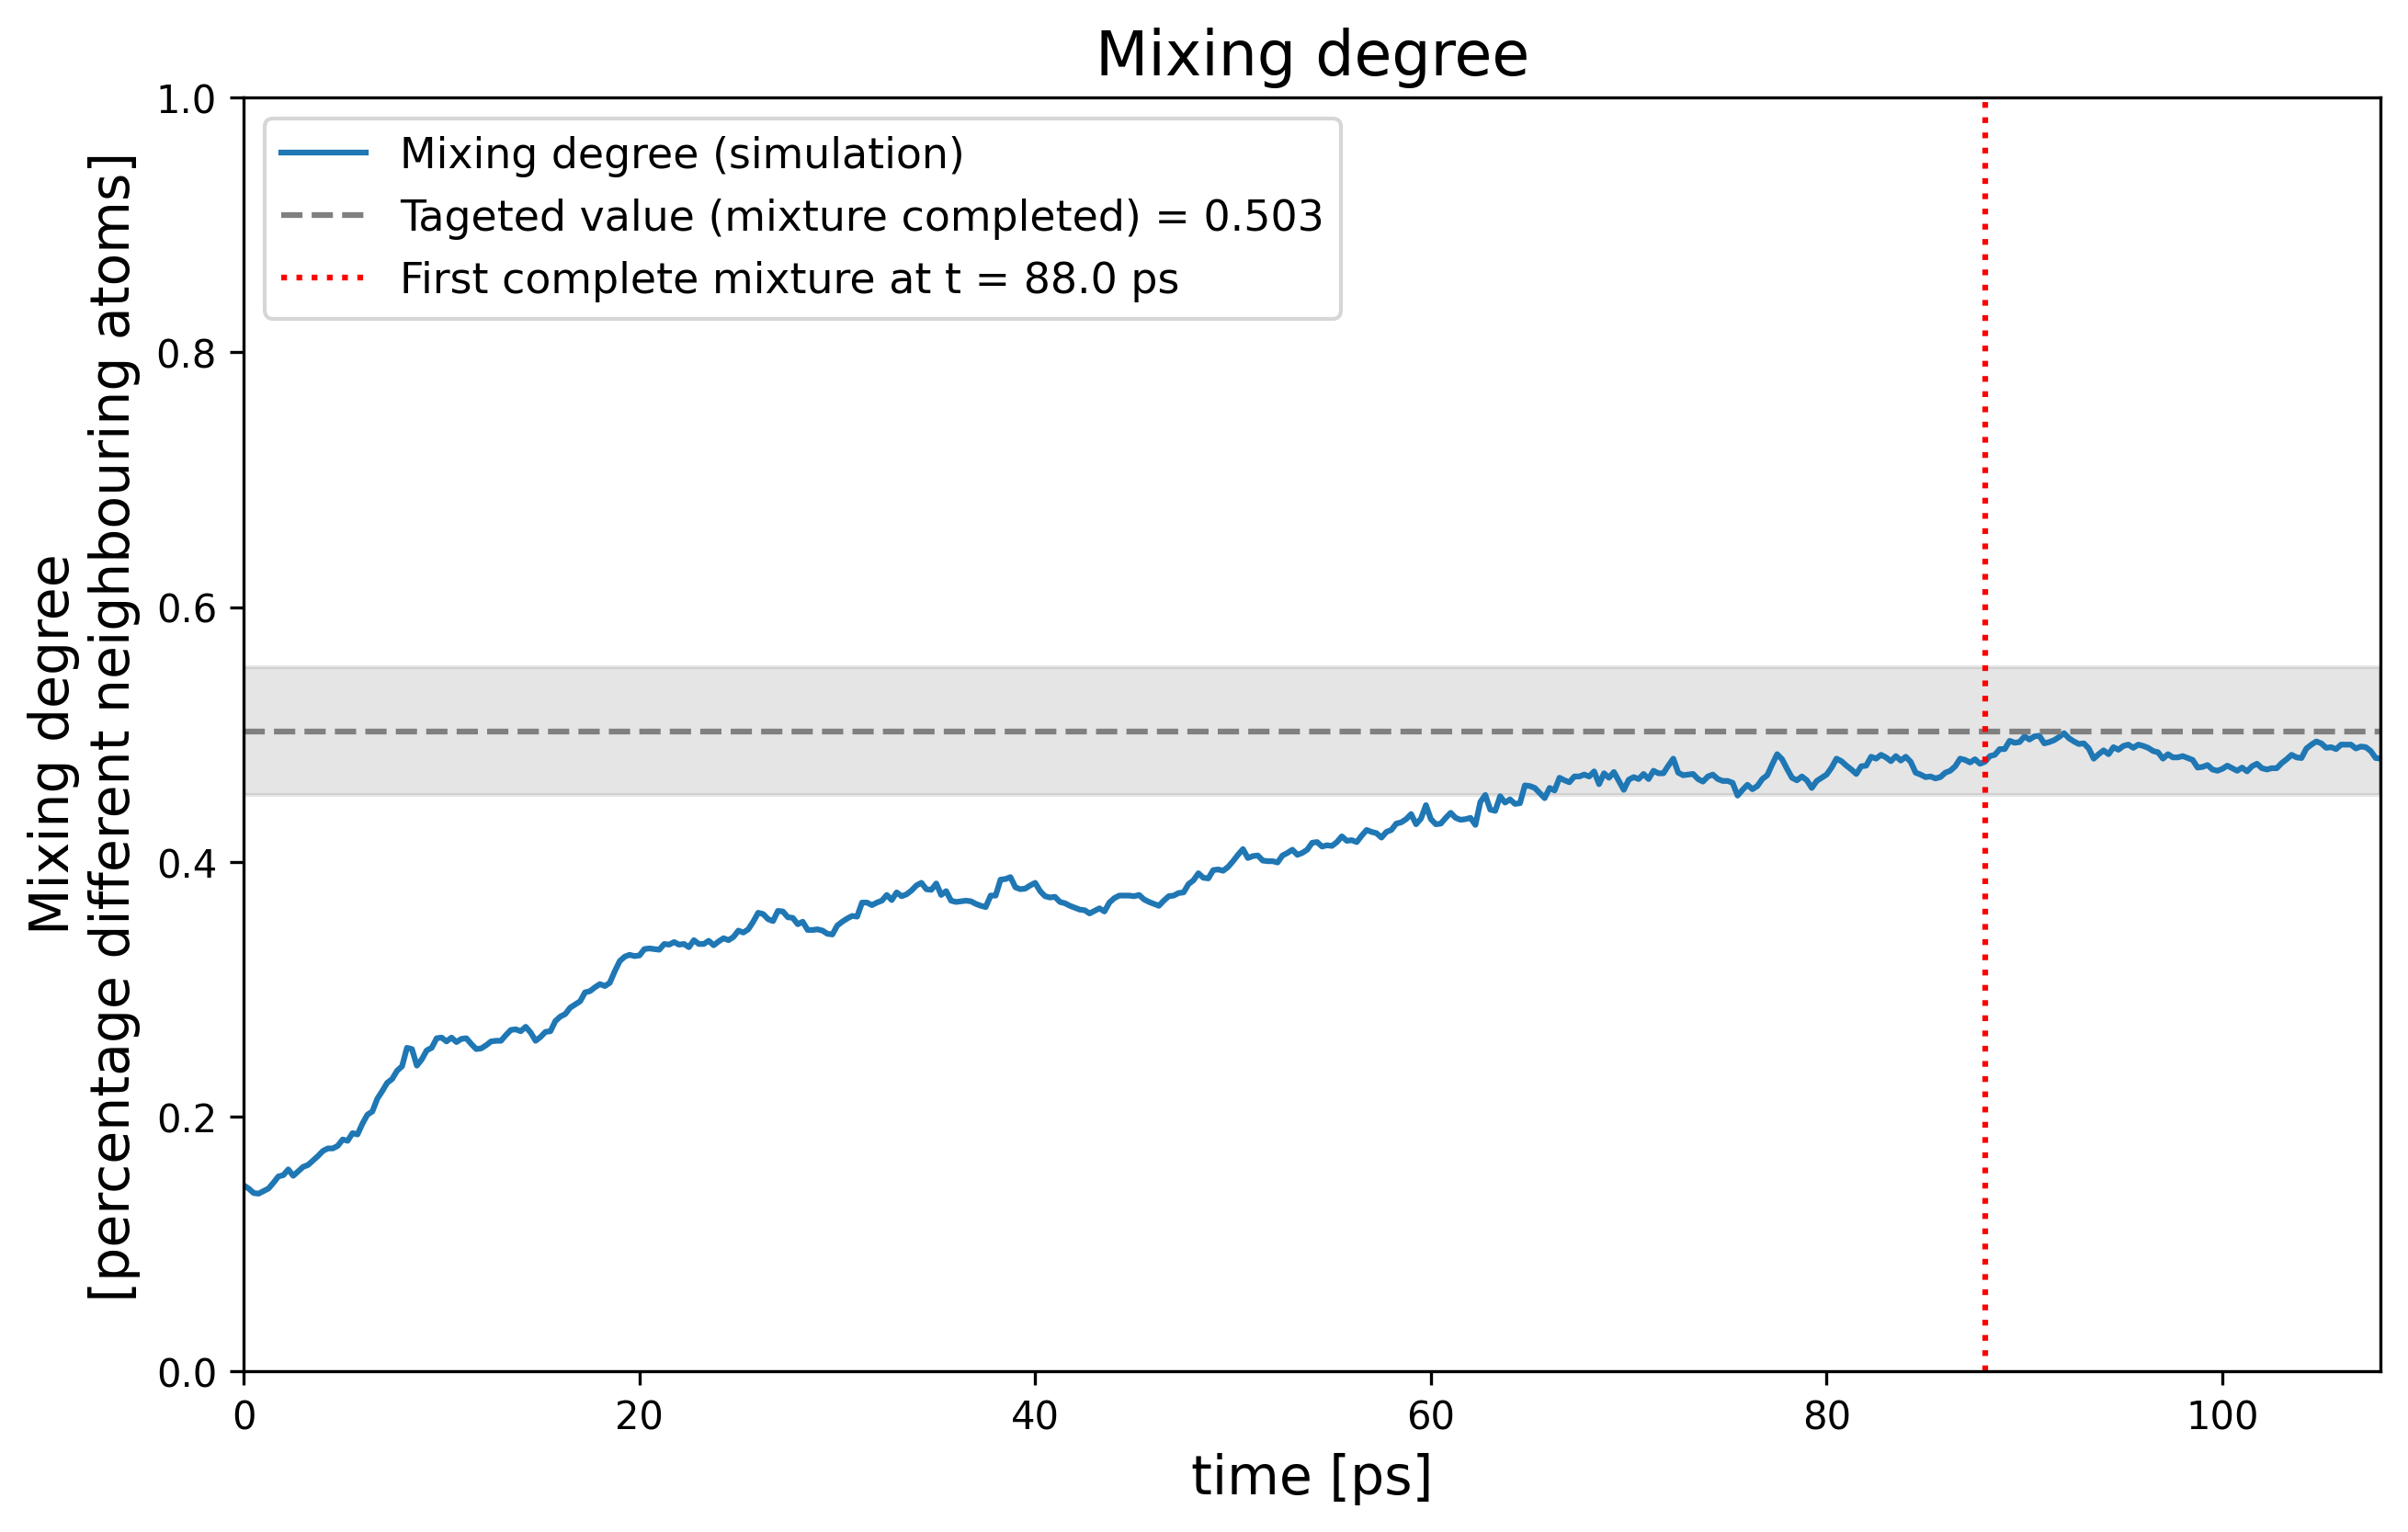
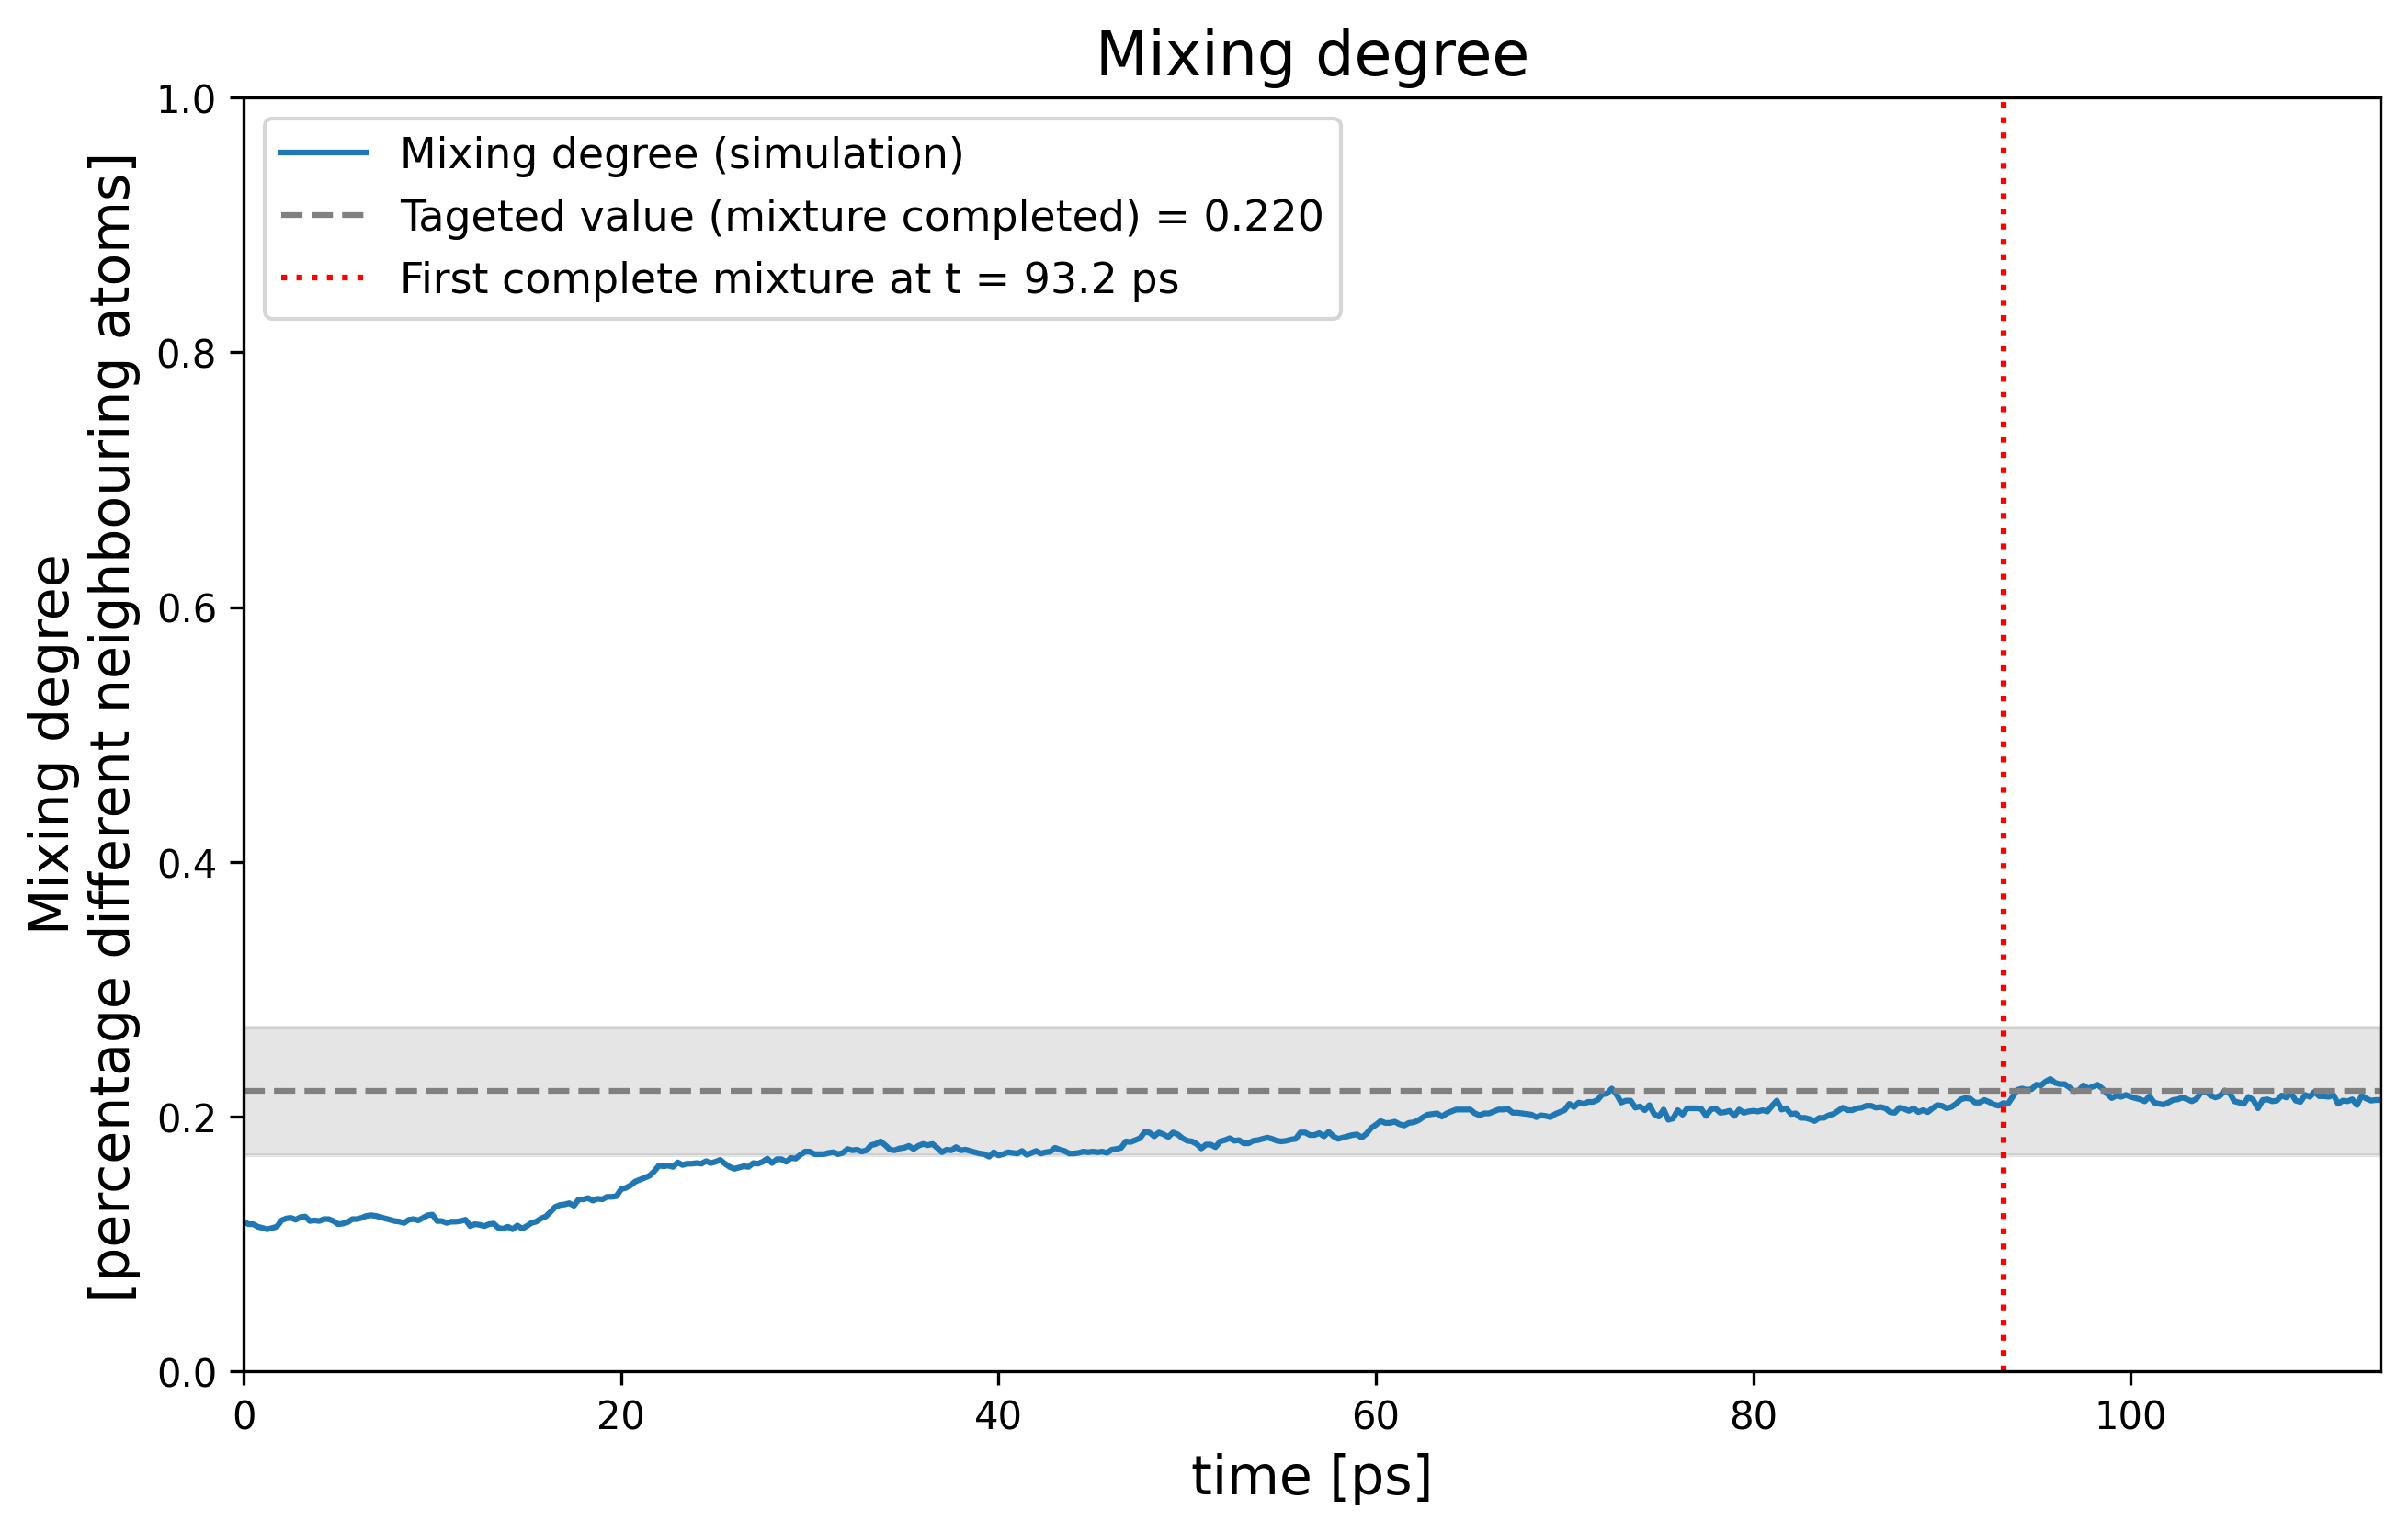
details

diff --git a/LJ_gas_run_MD_Amelie_Katie.py b/LJ_gas_run_MD_Amelie_Katie.py
@@ -76,7 +76,7 @@ def toc():
 #----------------------------------------------------------------
 # system
 # first particle type
-n_particles_A = 100
+n_particles_A = 25
 mass_A    = 4.0              # mass in u = 1e-3 kg/mol      Argon: 39.95    Helium: 4.0
 sigma_A   = 0.25238          # sigma in nm                  Argon: 0.34     Helium 0.25238 
 epsilon_A = 82 * R * 1e-3    # epsilon in kJ/mol            Argon: 120      Helium 82
@@ -86,7 +86,7 @@ positionbox_A = np.array([[0,0,0],[50,50,25]])
 # defines the area of starting positions as a box with x,y,z [nm]
 
 # second particle type
-n_particles_B = 100
+n_particles_B = 175
 mass_B    = 20.1797             # mass in u = 1e-3 kg/mol   Krypton: 83.80     Xenon: 131.29  Neon: 20.1797
 sigma_B   = 0.2789              # sigma in nm               Krypton: 0.364     Xenon: 0.4063  Neon: 0.2789
 epsilon_B = 35.6 * R * 1e-3     # epsilon in kJ/mol         Krypton: 164       Xenon: 190     Neon: 35.6 

diff --git a/LJ_gas_KT_180726.py b/LJ_gas_KT_180726.py
@@ -656,7 +656,7 @@ def fully_mixed_target(types: np.ndarray) -> float:
     unique_types, counts = np.unique(types, return_counts=True)
     n = len(types)
 
-    # sum of N_i * N_j over all unordered pairs of DIFFERENT types
+    # sum of N_i * N_j over all unordered pairs of different types
     cross_pairs = 0
     for i in range(len(unique_types)):
         for j in range(i + 1, len(unique_types)):